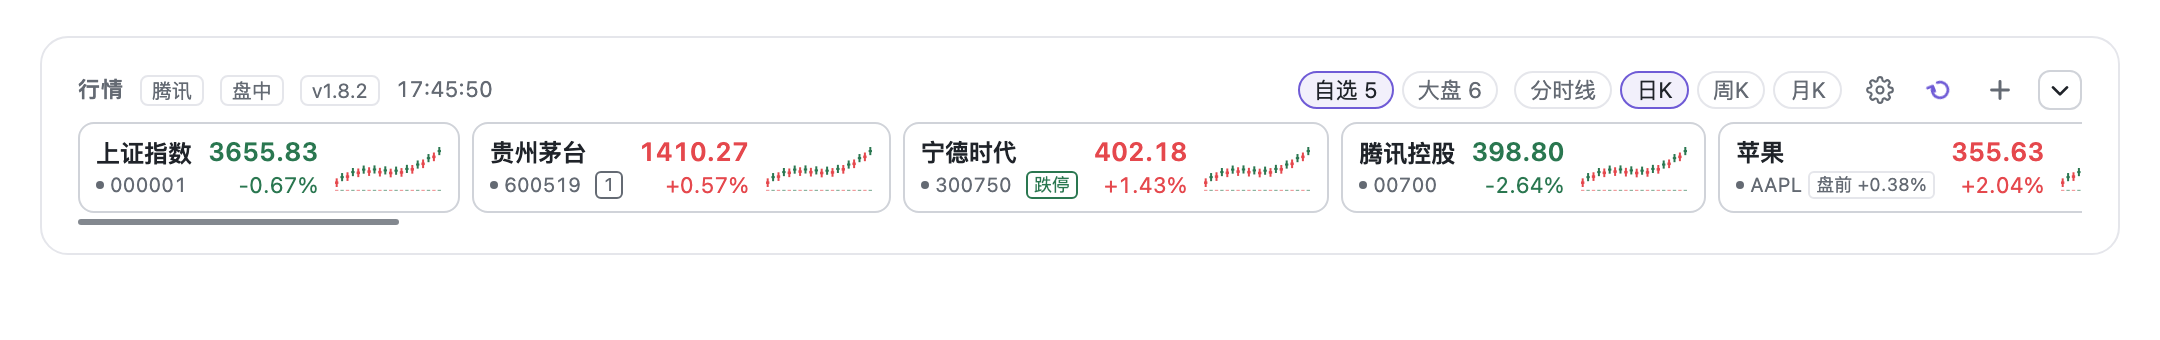
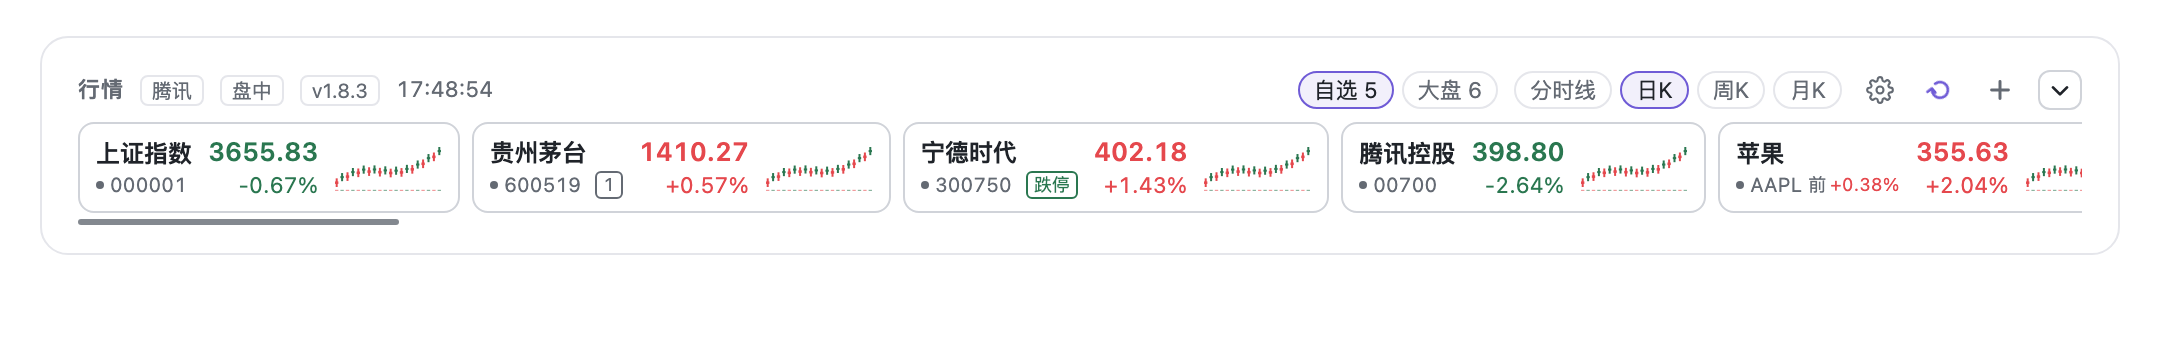
style(client): compact the card's extended-hours chip (1.8.3)
The bordered `盘前 +1.84%` pill widened US cards for a secondary reading. The
card now shows `前 +1.84%` (or `后`) with the percent coloured by its own
direction and no border or padding; the full session, price and timestamp are
in the tooltip. The detail header keeps the full label.

- Test updated for the compact chip and its tooltip. 80 tests.

Local commit only; not pushed.

Changed region(s): [[0.8375, 0.4118, 0.9616, 0.5882], [0.1861, 0.2353, 0.2481, 0.2941], [0.8065, 0.4118, 0.8375, 0.4706]]

diff --git a/client.js b/client.js
@@ -16,7 +16,7 @@ window.__ModuleLoader__.load({
     const { useCallback, useEffect, useMemo, useRef, useState } = React
 
     const NS = 'stockTicker'
-    const BUILD = 'v1.8.2'
+    const BUILD = 'v1.8.3'
     const ENDPOINT = '/dsh-stock-ticker'
     const COLLAPSE_KEY = 'dsh-stock-ticker:collapsed'
     const STYLE_ID = 'stock-ticker'
@@ -181,6 +181,8 @@ window.__ModuleLoader__.load({
       showExtended: '显示美股盘前 / 盘后',
       premarket: '盘前',
       afterHours: '盘后',
+      premarketShort: '前',
+      afterHoursShort: '后',
       settingsHint: '改动立即生效，保存在插件数据文件',
     }
 
@@ -342,6 +344,8 @@ window.__ModuleLoader__.load({
       showExtended: 'Show US pre/post market',
       premarket: 'Pre',
       afterHours: 'After',
+      premarketShort: 'Pre',
+      afterHoursShort: 'AH',
       settingsHint: 'Changes apply immediately and are stored in the plugin data file',
     }
 
@@ -1078,13 +1082,16 @@ window.__ModuleLoader__.load({
   font-variant-numeric: tabular-nums;
 }
 .dshst-ext {
-  padding: 0 3px;
-  border: 1px solid var(--dsw-alias-border-l1);
-  border-radius: 3px;
+  display: inline-flex;
+  align-items: baseline;
+  gap: 2px;
   font-size: 9px;
   line-height: 12px;
   color: var(--dsw-alias-label-secondary);
   font-variant-numeric: tabular-nums;
+}
+.dshst-extTag {
+  color: var(--dsw-alias-label-secondary);
 }
 .dshst-settingsPage {
   display: flex;
@@ -1660,8 +1667,22 @@ window.__ModuleLoader__.load({
             props.showExtended && quote.extended
               ? h(
                   'span',
-                  { className: 'dshst-ext', title: quote.extended.time ?? '' },
-                  `${quote.extended.session === 'post' ? t('afterHours') : t('premarket')} ${formatPct(quote.extended.changePct)}`,
+                  {
+                    className: 'dshst-ext',
+                    title: `${quote.extended.session === 'post' ? t('afterHours') : t('premarket')} ${formatPrice(
+                      quote.extended.price,
+                    )} ${formatPct(quote.extended.changePct)} ${quote.extended.time ?? ''}`.trim(),
+                  },
+                  h(
+                    'span',
+                    { className: 'dshst-extTag' },
+                    quote.extended.session === 'post' ? t('afterHoursShort') : t('premarketShort'),
+                  ),
+                  h(
+                    'span',
+                    { className: trendClass(quote.extended.changePct) },
+                    formatPct(quote.extended.changePct),
+                  ),
                 )
               : null,
             limitState(quote) === 'up' ? h('span', { className: 'dshst-limitMark dshst-up' }, t('limitUp')) : null,

diff --git a/CHANGELOG.md b/CHANGELOG.md
@@ -437,3 +437,12 @@ Settings discoverability and the options the strip was missing.
 - Preview pages skip transient animations so README screenshots capture the
   settled state.
 - No behaviour changes. 80 tests.
+
+## 1.8.3 — 2026-11-13
+
+- The card's US extended-hours chip no longer says `盘前 +1.84%` in a bordered
+  pill; it is now a compact `前 +1.84%` (or `后`) with the percent coloured by
+  its own direction and no border/padding. The full session, price and timestamp
+  move to the tooltip, so the card stops growing just because pre-market is on.
+  The detail header keeps the full label because it has the room.
+- Test updated for the compact chip and its tooltip. 80 tests.

diff --git a/README.md b/README.md
@@ -2,7 +2,7 @@
 
 **中文** · [English](README.en.md)
 
-![version](https://img.shields.io/badge/version-1.8.2-blue)
+![version](https://img.shields.io/badge/version-1.8.3-blue)
 ![license](https://img.shields.io/badge/license-MIT-green)
 ![dsh](https://img.shields.io/badge/DSH-0.2.x-6f5bd6)
 ![data](https://img.shields.io/badge/data-Tencent%20%7C%20Sina%20%7C%20Eastmoney-orange)

diff --git a/README.en.md b/README.en.md
@@ -2,7 +2,7 @@
 
 [中文](README.md) · **English**
 
-![version](https://img.shields.io/badge/version-1.8.2-blue)
+![version](https://img.shields.io/badge/version-1.8.3-blue)
 ![license](https://img.shields.io/badge/license-MIT-green)
 ![dsh](https://img.shields.io/badge/DSH-0.2.x-6f5bd6)
 ![data](https://img.shields.io/badge/data-Tencent%20%7C%20Sina%20%7C%20Eastmoney-orange)
